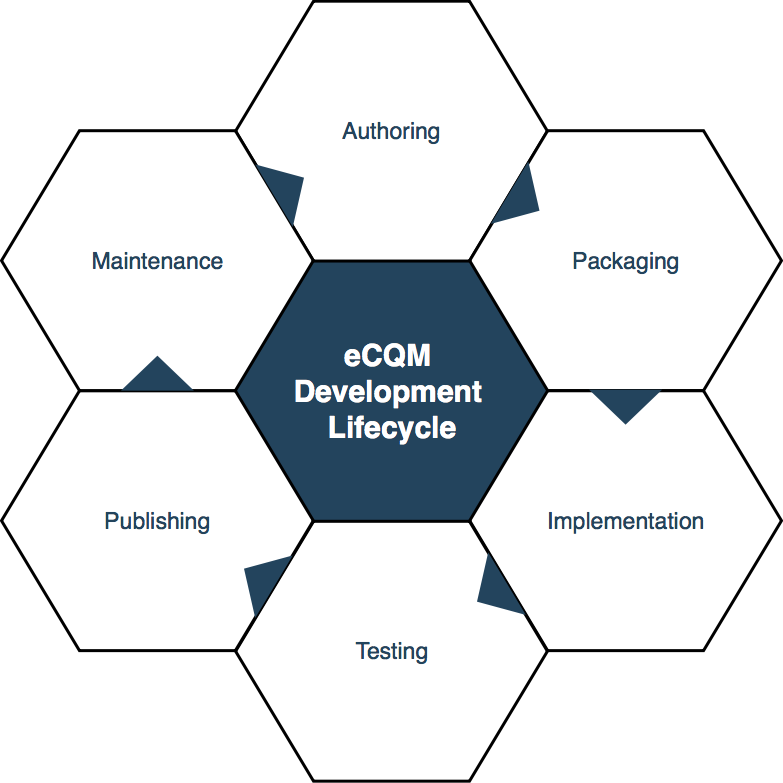
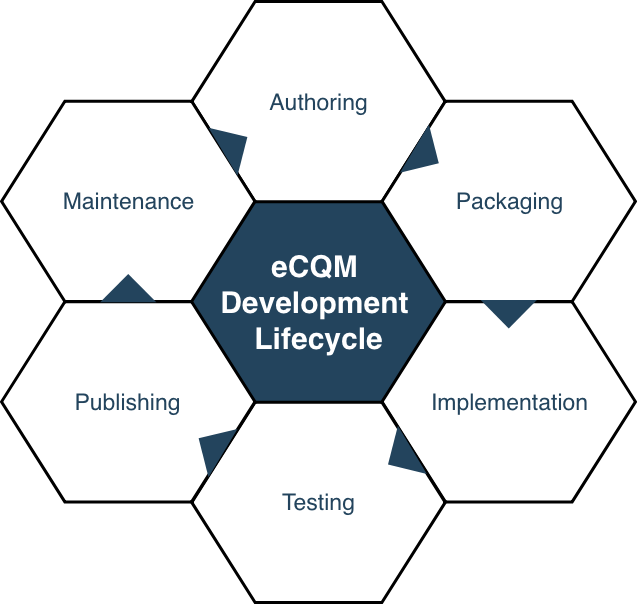
Adding content to home page ... fixing broken links

diff --git a/pages/index.html b/pages/index.html
@@ -10,7 +10,7 @@
 
 <h2>
     <span class="sectioncount">1.0.0&nbsp;</span>
-    <span>eCQM Methodology Implementation Guide</span>
+    <span>eCQM Methodology with CQL and FHIRro Implementation Guide</span>
     <a href="index.html#home" title="link to here" class="self-link"><img src="target.png" width="20" class="self-link" height="20"/></a>
 </h2>
 
@@ -23,22 +23,126 @@
 
 <p>
     The eCQM Methodology Implementation Guide defines a methodology for developing and evaluating <a href="https://ecqi.healthit.gov/ecqms">Electronic Clinical Quality Measures (eCQM)</a>. In order to enforce the methodology this implementation guide defines a set of FHIR profiles, which are necessary to evaluate eCQMs.
-    The profiles in this implementation guide provide a common foundation for building, sharing, and evaluating eCQMs across quality improvement efforts in the US Realm.
+    The profiles in this implementation guide provide a common foundation for building, sharing, and evaluating eCQMs across quality improvement efforts.
+</p>
+
+<a name="scope" style="display:none;">&nbsp;</a>
+<h3>
+    <span class="sectioncount">1.2.0&nbsp;</span>
+    <span>Scope</span>
+    <a href="index.html#summary" title="link to here" class="self-link"><img src="target.png" width="20" class="self-link" height="20"/></a>
+</h3>
+
+<p>
+    The scope of this guide is to provide guidance on the steps and processes involved in fostering a clinical quality measure specification into an electronic,
+    executable representation. The development of clinical quality measure specifications are not included in the scope of this guide. For more information
+    regarding the development of clinical quality measure specifications, visit the <a href="https://ecqi.healthit.gov/">Electronic Clinical Quality Improvement (eCQI) Resource Center</a>.
 </p>
 
 <a name="lifecycle" style="display:none;">&nbsp;</a>
 <h3>
-    <span class="sectioncount">1.2.0&nbsp;</span>
+    <span class="sectioncount">1.3.0&nbsp;</span>
     <span>Lifecycle</span>
     <a href="index.html#lifecycle" title="link to here" class="self-link"><img src="target.png" width="20" class="self-link" height="20"/></a>
 </h3>
 
 <p>
-    The eCQM methodology defined within this implementation guide adheres to the following lifecycle:
+    The eCQM methodology defined within this guide adheres to the following development lifecycle:
+</p>
+
+<div style="padding-bottom: 10px">
+    <img src="assets/images/eCQM_Dev_Cycle.png" height="500" width="500" style="display: block">
+</div>
+
+<a name="authoring" style="display:none;">&nbsp;</a>
+<h4>
+    <span class="sectioncount">1.3.1&nbsp;</span>
+    <span>Authoring</span>
+    <a href="index.html#authoring" title="link to here" class="self-link"><img src="target.png" width="20" class="self-link" height="20"/></a>
+</h4>
+
+<p>
+    The initial phase of the eCQM development lifecycle is the authoring phase. The scope of this phase includes guidance on how to represent the logic outlined in the measure specification as executable expression logic. For the purposes of this guide, the expression logic will be represented in <a href="http://cql.hl7.org/">Clinical Quality Language (CQL)</a>.
 </p>
 
 <p>
-    <img src="assets/images/eCQM_Dev_Cycle.png">
+    For more information on this phase, visit the <a href="authoring.html">Authoring page</a> in this guide.
+</p>
+
+<a name="packaging" style="display:none;">&nbsp;</a>
+<h4>
+    <span class="sectioncount">1.3.2&nbsp;</span>
+    <span>Packaging</span>
+    <a href="index.html#packaging" title="link to here" class="self-link"><img src="target.png" width="20" class="self-link" height="20"/></a>
+</h4>
+
+<p>
+    The second phase of the eCQM development lifecycle is the packaging phase. The scope of this phase includes developing the necessary <a href="http://hl7.org/fhir/">Fast Healthcare Interoperability Resources (FHIR)</a> needed to facilitate the FHIR <a href="http://hl7.org/fhir/measure-operations.html#evaluate-measure">$evaluate-measure operation</a>.
+</p>
+
+<p>
+    For more information on this phase, visit the <a href="packaging.html">Packaging page</a> in this guide.
+</p>
+
+
+<a name="implementation" style="display:none;">&nbsp;</a>
+<h4>
+    <span class="sectioncount">1.3.3&nbsp;</span>
+    <span>Implementation</span>
+    <a href="index.html#implementation" title="link to here" class="self-link"><img src="target.png" width="20" class="self-link" height="20"/></a>
+</h4>
+
+<p>
+    The third phase of the eCQM development lifecycle is the implementation phase. The scope of this phase includes the implementation requirements that must be satisfied in order to execute the FHIR $evaluate-measure operation. These requirements include access to a <a href="http://hl7.org/fhir/capabilitystatement-knowledge-repository.html">FHIR Knowledge Repository</a> and a <a href="http://hl7.org/fhir/capabilitystatement-measure-processor.html">FHIR Measure Processing service</a>.
+</p>
+
+<p>
+    For more information on this phase, visit the <a href="implementation.html">Implementation page</a> in this guide.
+</p>
+
+<a name="testing" style="display:none;">&nbsp;</a>
+<h4>
+    <span class="sectioncount">1.3.4&nbsp;</span>
+    <span>Testing</span>
+    <a href="index.html#testing" title="link to here" class="self-link"><img src="target.png" width="20" class="self-link" height="20"/></a>
+</h4>
+
+<p>
+    The fourth phase of the eCQM development lifecycle is the testing phase. The scope of this phase includes guidance identifying test cases, methods for generating test data, and validating results. The testing phase is optional, but highly recommended.
+</p>
+
+<p>
+    For more information on this phase, visit the <a href="testing.html">Testing page</a> in this guide.
+</p>
+
+<a name="publishing" style="display:none;">&nbsp;</a>
+<h4>
+    <span class="sectioncount">1.3.5&nbsp;</span>
+    <span>Publishing</span>
+    <a href="index.html#publishing" title="link to here" class="self-link"><img src="target.png" width="20" class="self-link" height="20"/></a>
+</h4>
+
+<p>
+    The fifth phase of the eCQM development lifecycle is the publishing phase. The scope of this phase includes guidance on methods for documenting the requirements and assumptions made during the previous phases. For the purposes of this guide, publishing will be discussed in two forms: <a href="http://hl7.org/fhir/implementationguide.html">FHIR Implementation Guide</a> and <a href="https://ecqi.healthit.gov/hqmf-health-quality-measure-format">Health Quality Measure Format (HQMF)</a>.
+</p>
+
+<p>
+    For more information on this phase, visit the <a href="publishing.html">Publishing page</a> in this guide.
+</p>
+
+<a name="maintenance" style="display:none;">&nbsp;</a>
+<h4>
+    <span class="sectioncount">1.3.6&nbsp;</span>
+    <span>Maintenance</span>
+    <a href="index.html#maintenance" title="link to here" class="self-link"><img src="target.png" width="20" class="self-link" height="20"/></a>
+</h4>
+
+<p>
+    The sixth phase of the eCQM development lifecycle is the maintenance phase. The scope of this phase includes updating the content generated in the initial phases based on feedback, changes to the measure specification, or some other trigger that initiates changes to the measure content.
+</p>
+
+<p>
+    For more information on this phase, visit the <a href="maintenance.html">Maintenance page</a> in this guide.
 </p>
 
 {% include container-end.html %}

diff --git a/pages/authoring.html b/pages/authoring.html
@@ -7,12 +7,22 @@
 {% include container-begin.html %}
 
 <a name="authoring" style="display:none;">&nbsp;</a>
-
 <h2>
     <span class="sectioncount">3.0.0&nbsp;</span>
     <span>eCQM Authoring</span>
     <a href="authoring.html#authoring" title="link to here" class="self-link"><img src="target.png" width="20" class="self-link" height="20"/></a>
 </h2>
+
+<a name="intro" style="display:none;">&nbsp;</a>
+<h3>
+    <span class="sectioncount">3.1.0&nbsp;</span>
+    <span>Introduction</span>
+    <a href="authoring.html#intro" title="link to here" class="self-link"><img src="target.png" width="20" class="self-link" height="20"/></a>
+</h3>
+
+<p>
+    <img src="assets/images/eCQM_Dev_Cycle_Authoring.png" height="500" width="500">
+</p>
 
 {% include container-end.html %}
 

diff --git a/pages/implementation.html b/pages/implementation.html
@@ -14,6 +14,17 @@
     <a href="implementation.html#implementation" title="link to here" class="self-link"><img src="target.png" width="20" class="self-link" height="20"/></a>
 </h2>
 
+<a name="intro" style="display:none;">&nbsp;</a>
+<h3>
+    <span class="sectioncount">5.1.0&nbsp;</span>
+    <span>Introduction</span>
+    <a href="implementation.html#intro" title="link to here" class="self-link"><img src="target.png" width="20" class="self-link" height="20"/></a>
+</h3>
+
+<p>
+    <img src="assets/images/eCQM_Dev_Cycle_Implementation.png" height="500" width="500">
+</p>
+
 {% include container-end.html %}
 
 {% include footer.html %}

diff --git a/pages/maintenance.html b/pages/maintenance.html
@@ -14,6 +14,17 @@
     <a href="maintenance.html#maintenance" title="link to here" class="self-link"><img src="target.png" width="20" class="self-link" height="20"/></a>
 </h2>
 
+<a name="intro" style="display:none;">&nbsp;</a>
+<h3>
+    <span class="sectioncount">8.1.0&nbsp;</span>
+    <span>Introduction</span>
+    <a href="maintenance.html#intro" title="link to here" class="self-link"><img src="target.png" width="20" class="self-link" height="20"/></a>
+</h3>
+
+<p>
+    <img src="assets/images/eCQM_Dev_Cycle_Maintenance.png" height="500" width="500">
+</p>
+
 {% include container-end.html %}
 
 {% include footer.html %}

diff --git a/pages/publishing.html b/pages/publishing.html
@@ -14,6 +14,17 @@
     <a href="publishing.html#publishing" title="link to here" class="self-link"><img src="target.png" width="20" class="self-link" height="20"/></a>
 </h2>
 
+<a name="intro" style="display:none;">&nbsp;</a>
+<h3>
+    <span class="sectioncount">7.1.0&nbsp;</span>
+    <span>Introduction</span>
+    <a href="publishing.html#intro" title="link to here" class="self-link"><img src="target.png" width="20" class="self-link" height="20"/></a>
+</h3>
+
+<p>
+    <img src="assets/images/eCQM_Dev_Cycle_Publishing.png" height="500" width="500">
+</p>
+
 {% include container-end.html %}
 
 {% include footer.html %}

diff --git a/pages/packaging.html b/pages/packaging.html
@@ -14,6 +14,17 @@
     <a href="packaging.html#packaging" title="link to here" class="self-link"><img src="target.png" width="20" class="self-link" height="20"/></a>
 </h2>
 
+<a name="intro" style="display:none;">&nbsp;</a>
+<h3>
+    <span class="sectioncount">4.1.0&nbsp;</span>
+    <span>Introduction</span>
+    <a href="packaging.html#intro" title="link to here" class="self-link"><img src="target.png" width="20" class="self-link" height="20"/></a>
+</h3>
+
+<p>
+    <img src="assets/images/eCQM_Dev_Cycle_Packaging.png" height="500" width="500">
+</p>
+
 {% include container-end.html %}
 
 {% include footer.html %}

diff --git a/pages/testing.html b/pages/testing.html
@@ -14,6 +14,17 @@
     <a href="testing.html#testing" title="link to here" class="self-link"><img src="target.png" width="20" class="self-link" height="20"/></a>
 </h2>
 
+<a name="intro" style="display:none;">&nbsp;</a>
+<h3>
+    <span class="sectioncount">6.1.0&nbsp;</span>
+    <span>Introduction</span>
+    <a href="testing.html#intro" title="link to here" class="self-link"><img src="target.png" width="20" class="self-link" height="20"/></a>
+</h3>
+
+<p>
+    <img src="assets/images/eCQM_Dev_Cycle_Testing.png" height="500" width="500">
+</p>
+
 {% include container-end.html %}
 
 {% include footer.html %}

diff --git a/README.md b/README.md
@@ -1,6 +1,6 @@
 # eCQM Implementation Guide
 
-This project outlines the methodology for developing and executing Electronic Clinical Quality Measures.
+This project outlines a methodology for developing and executing Electronic Clinical Quality Measures.
 
 ## Local Build
 
